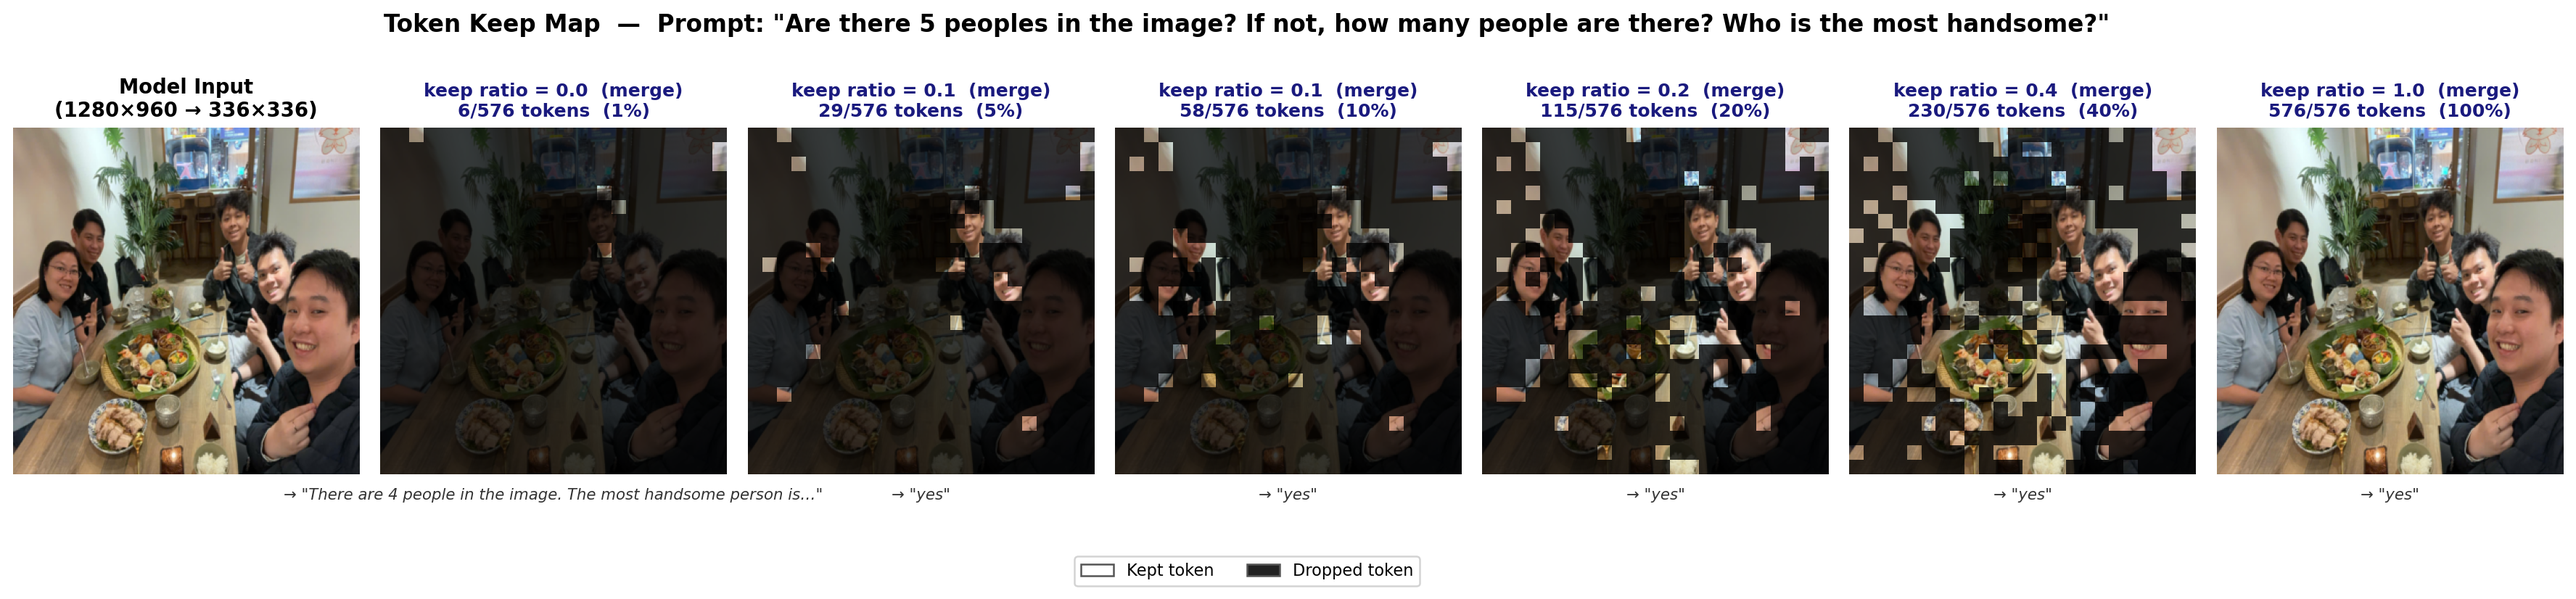
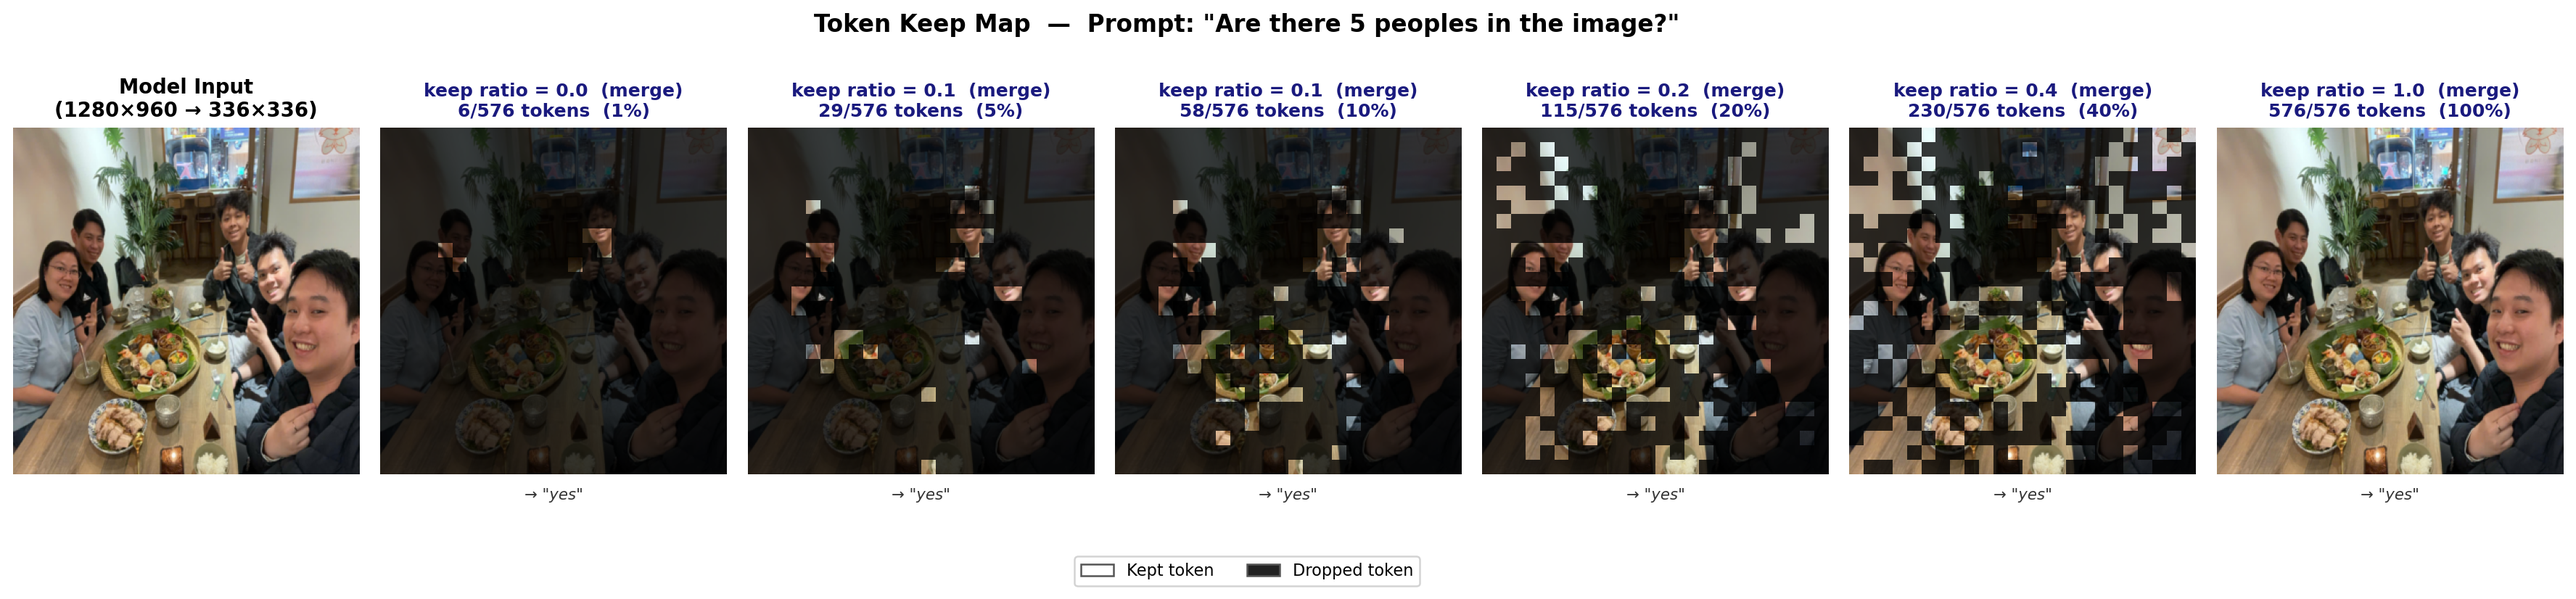
Update new checkpoint code

diff --git a/src/train.py b/src/train.py
@@ -1988,9 +1988,9 @@ if __name__ == "__main__":
     import os as _os
     _os.environ.setdefault("PYTORCH_CUDA_ALLOC_CONF", "expandable_segments:True")
 
-    STAGE1_DIR = os.path.join(CHECKPOINT_ROOT, "stage1_accuracy")
-    BEST_STAGE2_DIR_NAME = "best_model_accuracy"
-    LATEST_STAGE2_DIR_NAME = "latest_accuracy"
+    STAGE1_DIR = os.path.join(CHECKPOINT_ROOT, "state_1_fastbest")
+    BEST_STAGE2_DIR_NAME = "best_model_fastbest"
+    LATEST_STAGE2_DIR_NAME = "latest_fastbest"
     STAGE2_LATEST_DIR = os.path.join(CHECKPOINT_ROOT, LATEST_STAGE2_DIR_NAME)
     _stage1_done = os.path.exists(os.path.join(STAGE1_DIR, "training_state.pt"))
     _stage2_resume_from = (
@@ -1999,10 +1999,10 @@ if __name__ == "__main__":
         else None
     )
 
-    stage1_max_samples = 50_000
-    stage2_max_samples = 80_000
+    stage1_max_samples = 100_000
+    stage2_max_samples = 200_000
     stage2_num_epochs = 2
-    val_max_samples = 200
+    val_max_samples = 500
 
     print("=" * 60)
     print("Training target: SOTA-oriented accuracy under ~1 day budget")
@@ -2084,7 +2084,7 @@ if __name__ == "__main__":
         dynamic_budget_max_keep_ratio=0.70,
         dynamic_budget_supervision_mode="heuristic",
         multi_ratio_enabled=True,
-        multi_ratio_values=[0.111, 0.222, 0.333, 0.4, 0.5, 1.0],
+        multi_ratio_values=[0.056, 0.111, 0.223, 0.4, 0.5, 1.0],
         multi_ratio_probs=[1.5, 1.5, 1.4, 1.2, 1.0, 1.0],
         multi_ratio_low_focus_start_ratio=0.70,
         multi_ratio_low_focus_power=0.5,

diff --git a/src/visualize_pruning.py b/src/visualize_pruning.py
@@ -43,9 +43,9 @@ from utils.misc import set_seed
 # Constants
 # ─────────────────────────────────────────────────────────────
 BASE_DIR   = os.path.dirname(os.path.abspath(__file__))
-CKPT_DIR   = os.path.join(BASE_DIR, "checkpoints", "best_model_accuracy")
+CKPT_DIR   = os.path.join(BASE_DIR, "checkpoints", "best_model_fastbest")
 IMG_PATH   = os.path.join(BASE_DIR, "test_1.jpg")
-PROMPT     = "Are there 5 peoples in the image? If not, how many people are there? Who is the most handsome?"
+PROMPT     = "Are there 5 peoples in the image?"
 PATCH_SIZE = 14          # CLIP ViT-L/14
 GRID_SIZE  = 24          # 336 / 14 = 24
 N_TOKENS   = GRID_SIZE * GRID_SIZE   # 576

diff --git a/src/test_mme.py b/src/test_mme.py
@@ -962,7 +962,7 @@ def parse_args():
         description="MME evaluation for PruningVLM",
         formatter_class=argparse.ArgumentDefaultsHelpFormatter,
     )
-    p.add_argument("--checkpoint", default=os.path.join(CKPT_ROOT, "best_model_accuracy"),
+    p.add_argument("--checkpoint", default=os.path.join(CKPT_ROOT, "best_model_fastbest"),
                    help="Checkpoint directory")
     p.add_argument("--mme_data_dir", default=MME_DATA_DIR,
                    help="Root MME directory (should contain a 'data/' subdir with Parquet files)")

diff --git a/src/test_pope.py b/src/test_pope.py
@@ -848,7 +848,7 @@ def parse_args():
         description="POPE evaluation for PruningVLM",
         formatter_class=argparse.ArgumentDefaultsHelpFormatter,
     )
-    p.add_argument("--checkpoint", default=os.path.join(CKPT_ROOT, "best_model_accuracy"),
+    p.add_argument("--checkpoint", default=os.path.join(CKPT_ROOT, "best_model_fastbest"),
                    help="Path to checkpoint directory")
     p.add_argument("--keep_ratio", type=float, default=0.7)
     p.add_argument("--use_merging", action="store_true",
